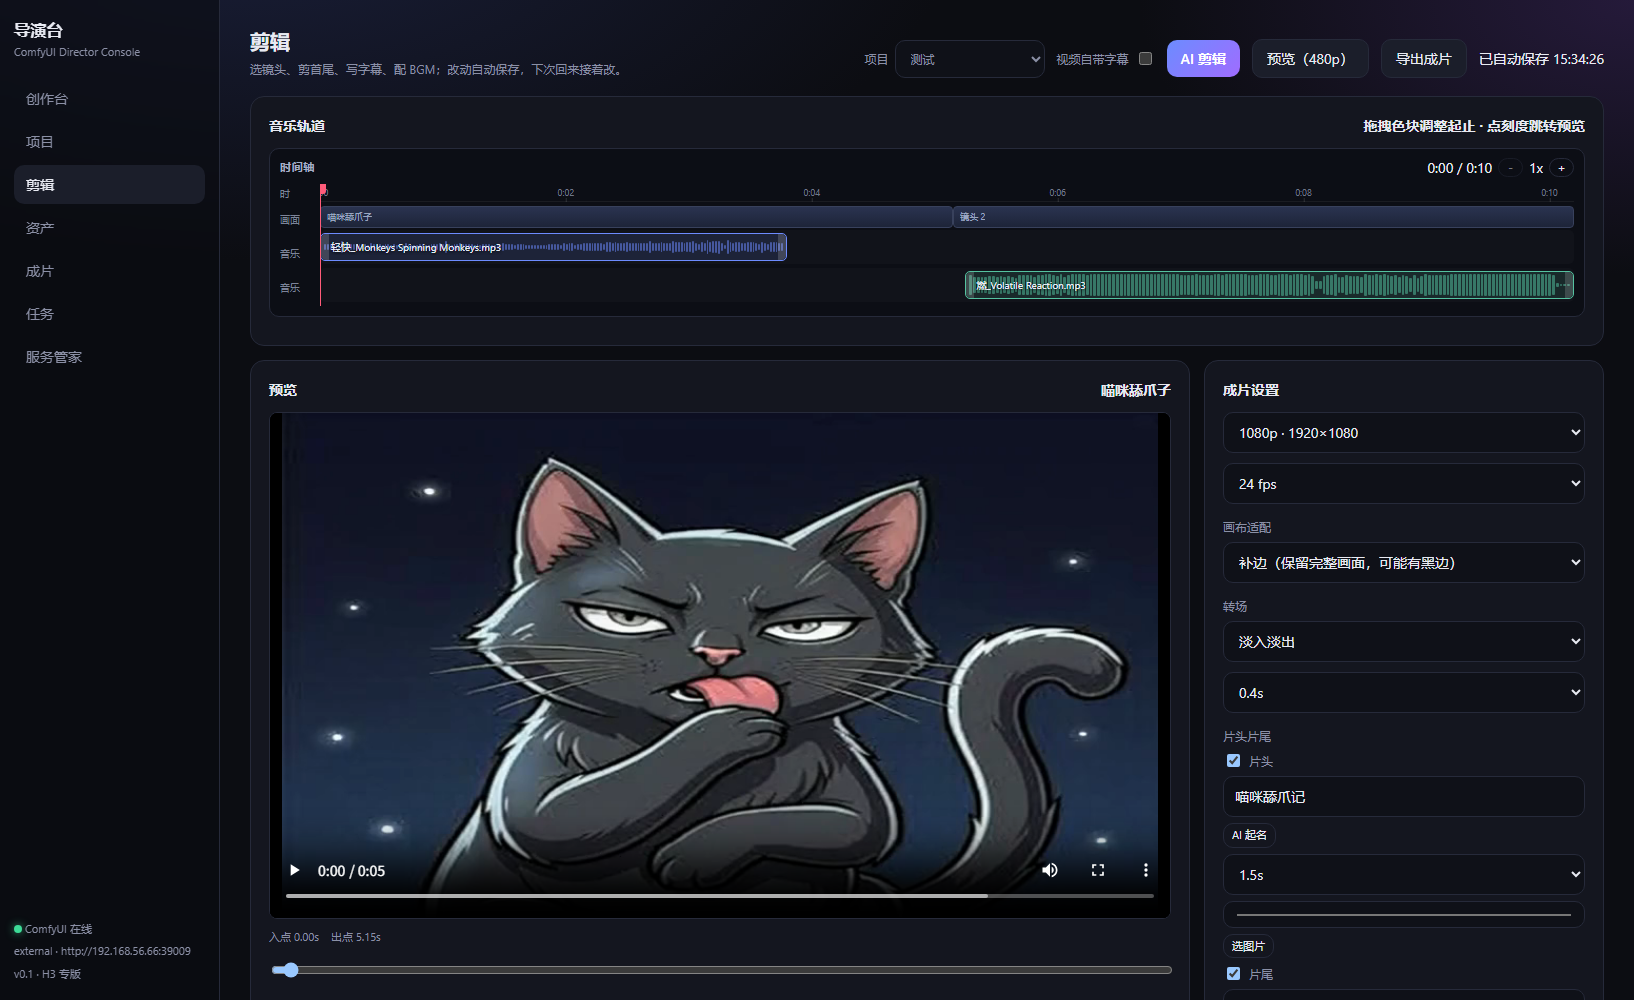
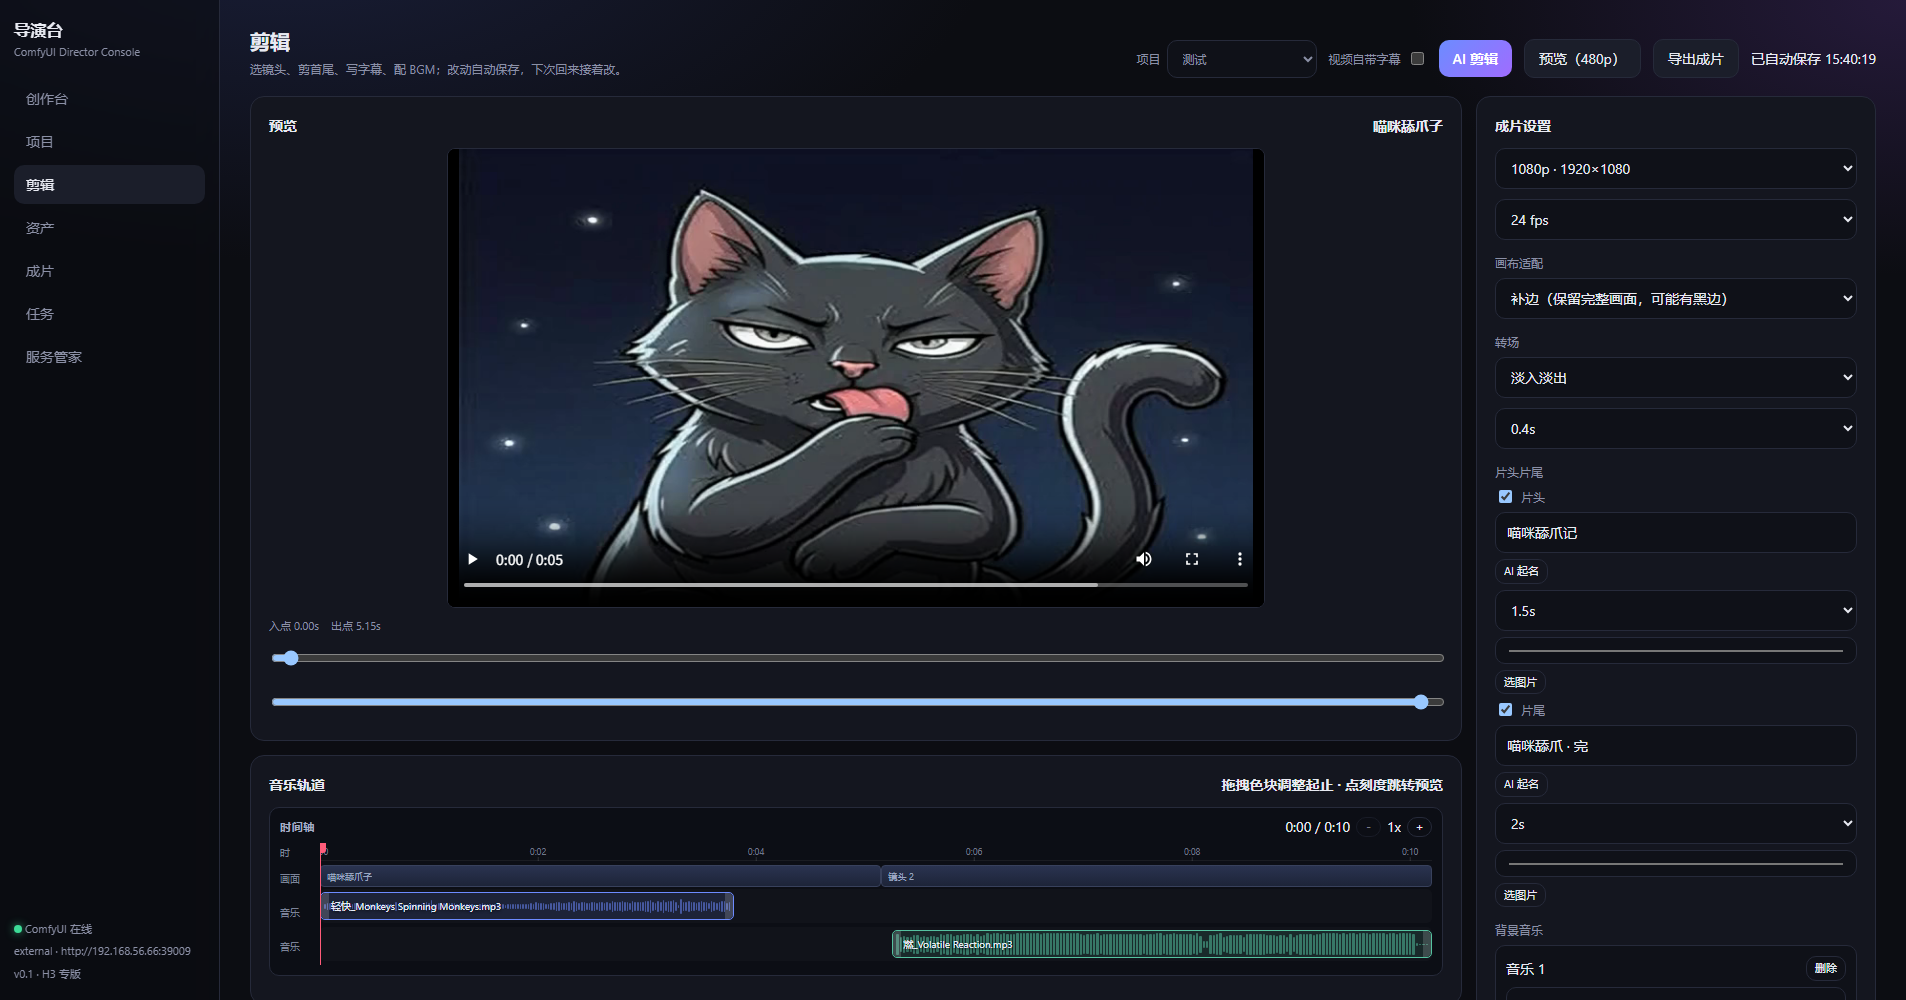
style(剪辑): 预览画布按视口高度限宽居中，音乐轨道移到预览正下方

diff --git a/web/src/components/EditPanel.tsx b/web/src/components/EditPanel.tsx
@@ -1429,6 +1429,10 @@ export default function EditPanel({
             <div className="canvas-box" style={{
               aspectRatio: `${(RESOLUTIONS.find((r) => r.key === resKey) || RESOLUTIONS[1]).width} / ${
                 (RESOLUTIONS.find((r) => r.key === resKey) || RESOLUTIONS[1]).height}`,
+              ['--ar' as string]: String(
+                (RESOLUTIONS.find((r) => r.key === resKey) || RESOLUTIONS[1]).width /
+                (RESOLUTIONS.find((r) => r.key === resKey) || RESOLUTIONS[1]).height,
+              ),
             }}>
               <video key={previewJob?.url || shotPreview.url} className="preview-video" ref={previewVideoRef}
                      src={previewJob?.status === 'succeeded' && previewJob.url ? previewJob.url : shotPreview.url}
@@ -1457,6 +1461,25 @@ export default function EditPanel({
                    value={editOf(activeShot).out_point ? Math.min(Number(editOf(activeShot).out_point), shotPreview.duration) : shotPreview.duration}
                    onChange={(e) => patchEdit(activeShot, { out_point: e.target.value })} />
           </div>
+        </div>
+
+        <div className="panel panel-timeline">
+          <h2>
+            <span>音乐轨道</span>
+            <span className="meta">拖拽色块调整起止 · 点刻度跳转预览</span>
+          </h2>
+          <BgmTimeline
+            duration={filmDuration}
+            shots={timeline.map((t) => ({ shot_id: t.shot_id, title: t.title, duration: t.duration }))}
+            tracks={bgmTracks}
+            activeId={activeTrackId}
+            titles={Object.fromEntries(audios.map((a) => [a.id, audioLabel(a)]))}
+            urls={Object.fromEntries(audios.map((a) => [a.id, a.url || `/media/files/${a.path}`]))}
+            currentTime={playhead}
+            onSelect={setActiveTrackId}
+            onChange={updateTrack}
+            onSeek={seekFilm}
+          />
         </div>
         </div>
 
@@ -1684,24 +1707,6 @@ export default function EditPanel({
 
         </div>
 
-        <div className="panel span-all">
-          <h2>
-            <span>音乐轨道</span>
-            <span className="meta">拖拽色块调整起止 · 点刻度跳转预览</span>
-          </h2>
-          <BgmTimeline
-            duration={filmDuration}
-            shots={timeline.map((t) => ({ shot_id: t.shot_id, title: t.title, duration: t.duration }))}
-            tracks={bgmTracks}
-            activeId={activeTrackId}
-            titles={Object.fromEntries(audios.map((a) => [a.id, audioLabel(a)]))}
-            urls={Object.fromEntries(audios.map((a) => [a.id, a.url || `/media/files/${a.path}`]))}
-            currentTime={playhead}
-            onSelect={setActiveTrackId}
-            onChange={updateTrack}
-            onSeek={seekFilm}
-          />
-        </div>
       </div>
     </div>
   )

diff --git a/web/src/styles.css b/web/src/styles.css
@@ -506,7 +506,7 @@ label.check input[type=checkbox] { width: auto; height: auto; flex: 0 0 auto; }
 
 
 /* 预览画布：显示成片实际画幅 */
-.canvas-box { position: relative; width: 100%; background: #000; border: 1px solid var(--line); border-radius: 8px; overflow: hidden; }
+.canvas-box { position: relative; width: min(100%, calc(46vh * var(--ar, 1.7778))); margin-inline: auto; background: #000; border: 1px solid var(--line); border-radius: 8px; overflow: hidden; }
 .canvas-box .preview-video { position: absolute; inset: 0; width: 100%; height: 100%; object-fit: contain; max-height: none; border-radius: 0; }
 
 
@@ -679,14 +679,18 @@ label.check input[type=checkbox] { width: auto; height: auto; flex: 0 0 auto; }
   gap: 14px;
   align-items: start;
 }
-.render-editor > .span-all { grid-column: 1 / -1; grid-row: 1; }
-.ed-col { grid-column: 1; grid-row: 2; }
-.render-editor > .panel-side { grid-column: 2; grid-row: 2; }
+.ed-col { grid-column: 1; grid-row: 1; }
+.render-editor > .panel-side { grid-column: 2; grid-row: 1; }
+.ed-col > .panel-timeline { order: -1; }
 .ed-col { display: flex; flex-direction: column; gap: 14px; min-width: 0; }
-.ed-col > .panel-preview { order: -1; }
+.ed-col > .panel-preview { order: -2; }
 .render-editor > .panel-side { min-width: 0; }
 .render-editor > .span-all { grid-column: 1 / -1; }
 @media (max-width: 1200px) {
   .render-editor { grid-template-columns: minmax(0, 1fr); }
   .render-editor > .panel-side { position: static; max-height: none; }
 }
+
+
+/* 预览画布：按视口高度限宽，避免一屏只看到视频 */
+.ed-col > .panel-preview .canvas-box { max-height: 46vh; }
